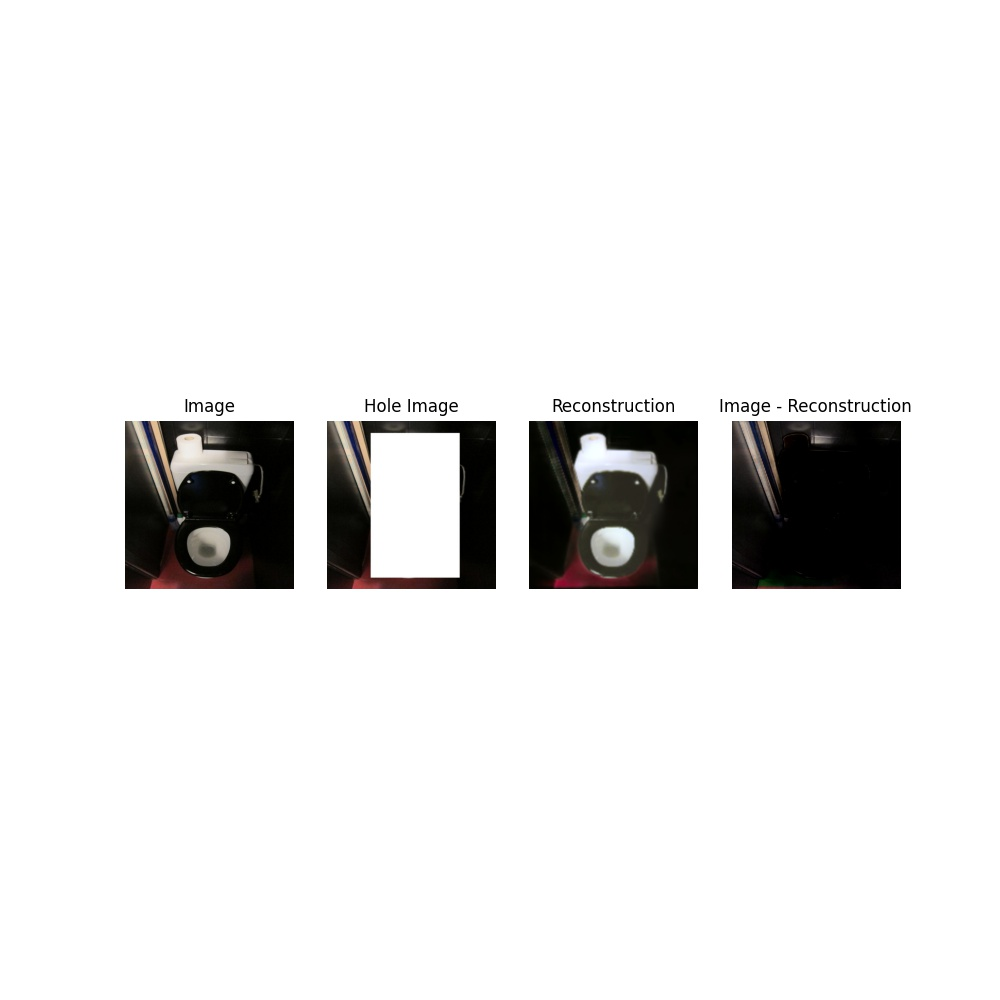
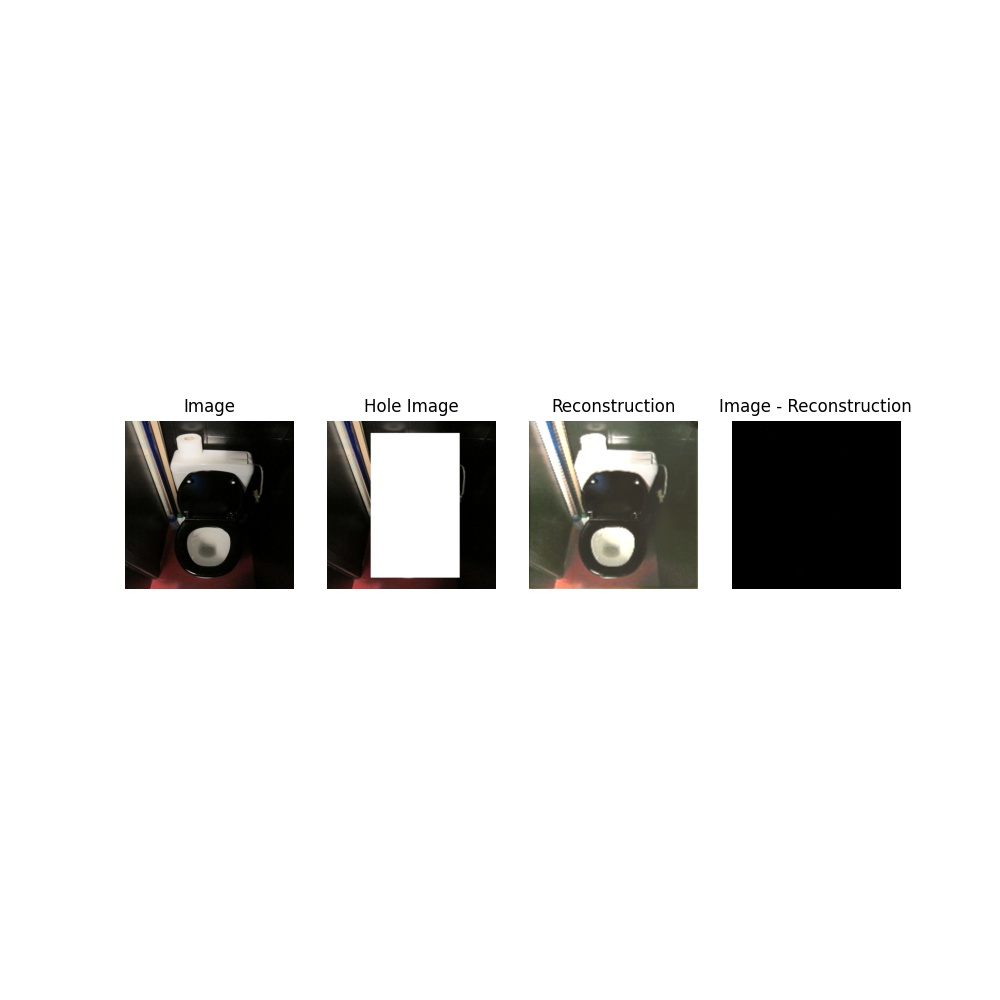
:zap: Add Code for reconstructing the whole image

Changed region(s): [[0.527, 0.403, 0.837, 0.589], [0.744, 0.558, 0.806, 0.589]]

diff --git a/modules/reconstructor.py b/modules/reconstructor.py
@@ -45,12 +45,9 @@ class Reconstructor(nn.Module):
         images = F.interpolate(imgs,(size,size))
         images = normalize(images)
         masks = F.tanh(masks)
-#         masks = masking(masks, 'multi', (0,12))
-#         masks = masking(masks, 'multi', (84,144))
-        # masks = torch.ones_like(masks) - masks
+#         masks = masking(masks, 'multi', (84,120))
         # masks = masks ** 2
         x = self.encoder(images,masks)
-        # images = F.interpolate(imgs,(size*4,size*4))
         x = self.decoder(x)
 
         return x

diff --git a/modules/run.py b/modules/run.py
@@ -171,7 +171,7 @@ def edit_loss(outputs, images, hole_images, masks):
     outputs = un_normalize(outputs)
     masks = torch.stack(masks,0).cuda()
 
-    bg_loss =  recon_loss(outputs, inputs*masks)
+    bg_loss =  recon_loss(outputs, inputs)
 
     
     style_loss = s_loss(outputs, inputs, masks)
